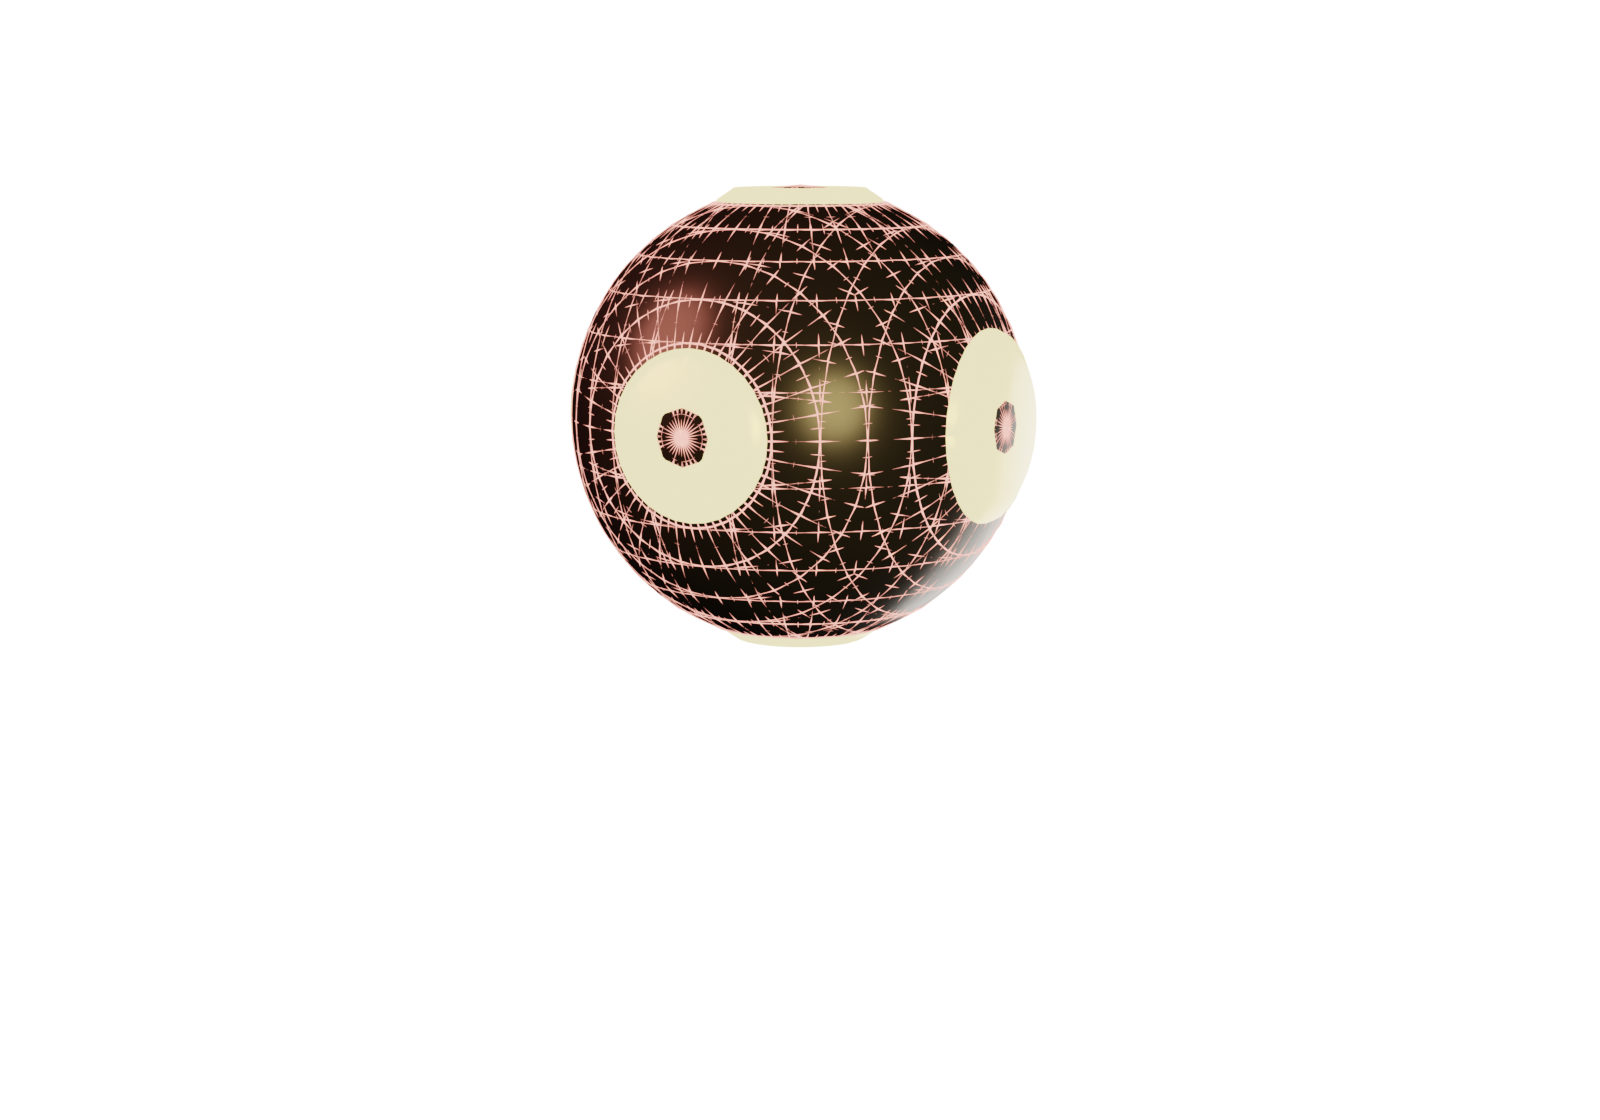
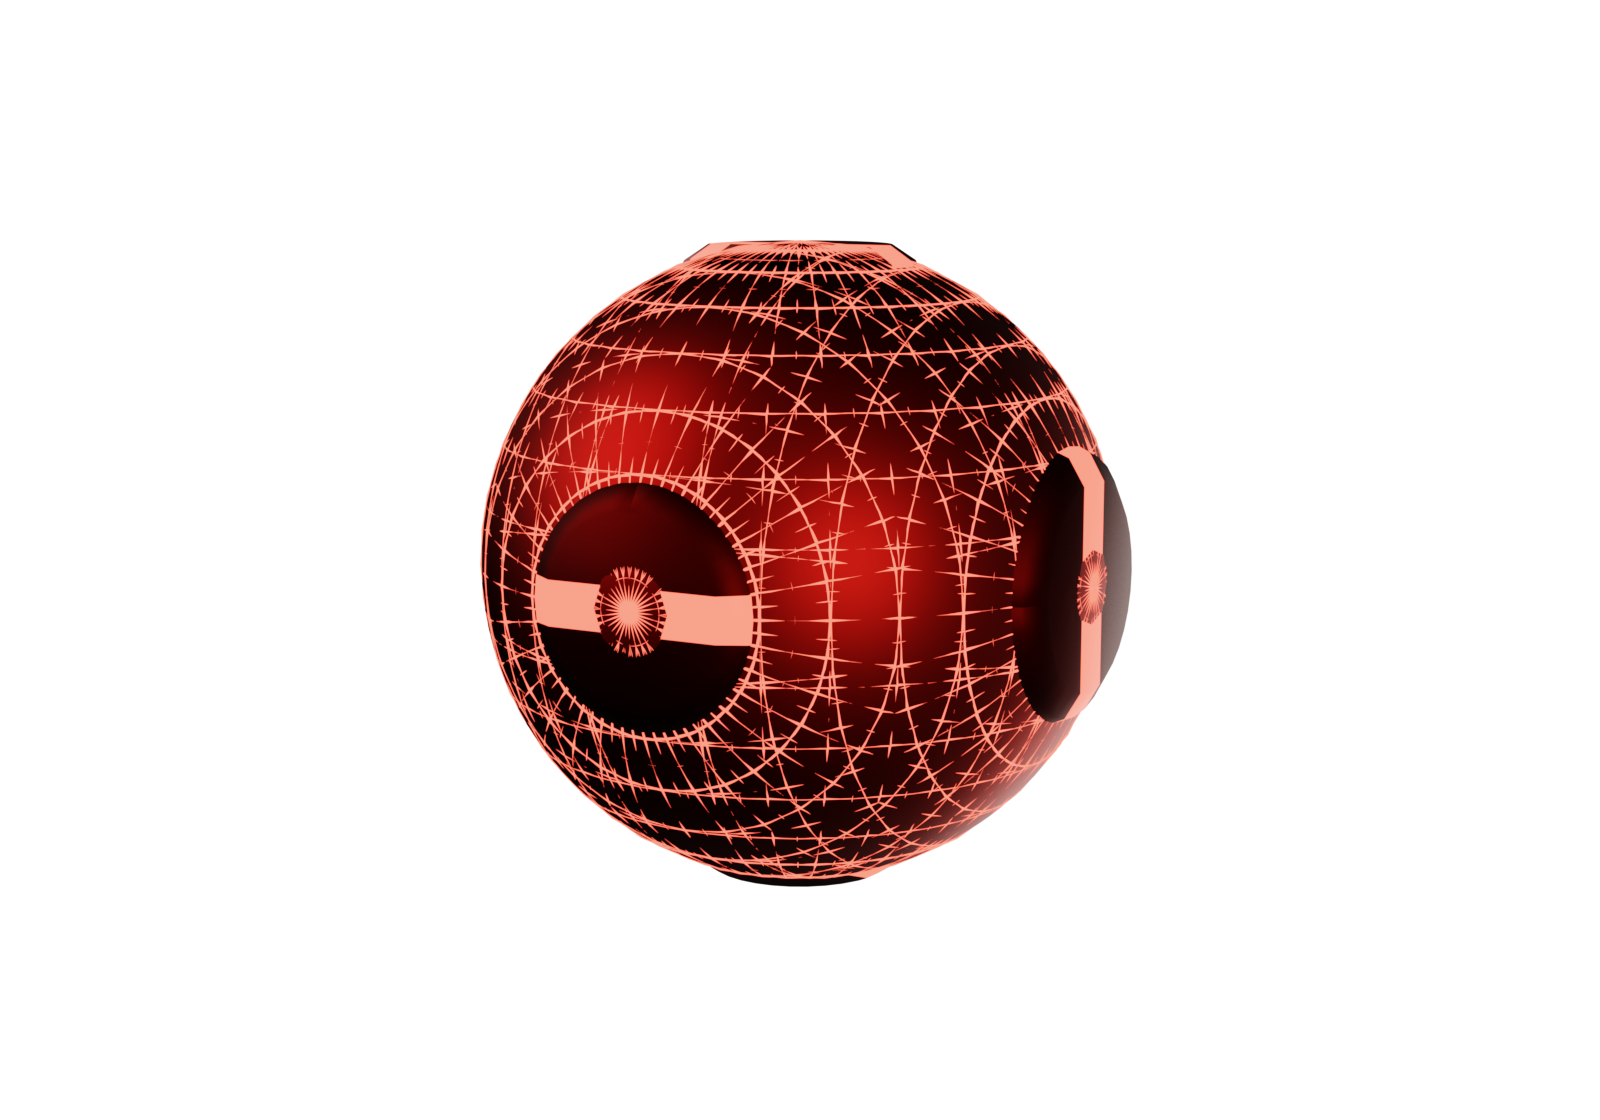
Restore Aether eye identity

Changed region(s): [[0.2812, 0.1562, 0.7188, 0.8125]]

diff --git a/app/globals.css b/app/globals.css
@@ -5,8 +5,8 @@
   --bone: #e9e2d4;
   --ash: #a39788;
   --mute: #635a4f;
-  --rust: #cf3f32;
-  --rust-dark: #6e211b;
+  --rust: #de3c2f;
+  --rust-dark: #ae2620;
   --amber: #e5b94b;
   --ember: #d97a3a;
   --hairline: rgba(233, 226, 212, 0.13);
@@ -52,7 +52,10 @@ button { font: inherit; }
   backdrop-filter: blur(10px);
 }
 .wordmark { display: inline-flex; align-items: center; gap: 11px; font-size: 18px; font-weight: 600; letter-spacing: -.03em; }
-.wordmark-mark { display: grid; place-items: center; width: 32px; height: 32px; border: 1px solid rgba(207,63,50,.6); color: var(--rust); font-family: Georgia, serif; font-size: 20px; }
+.wordmark-mark { position: relative; display: grid; place-items: center; width: 46px; height: 30px; color: var(--rust); font-family: var(--mono); font-size: 14px; letter-spacing: -.12em; }
+.wordmark-mark::before { content: ""; position: absolute; inset: 4px 0; border-top: 1px solid rgba(222,60,47,.72); border-bottom: 1px solid rgba(174,38,32,.72); border-radius: 52% 48%; transform: skewX(-13deg); box-shadow: inset 0 0 16px rgba(222,60,47,.08), 0 0 18px rgba(174,38,32,.08); }
+.wordmark-mark::after { content: ""; position: absolute; width: 4px; height: 4px; border-radius: 50%; background: var(--rust); box-shadow: 0 0 10px rgba(222,60,47,.9); }
+.wordmark-mark span { position: relative; z-index: 1; transform: translateX(-1px); text-shadow: 0 0 11px rgba(222,60,47,.62); animation: mark-breathe 3s ease-in-out infinite; }
 .site-nav nav { display: flex; align-items: center; gap: 28px; font-family: var(--mono); font-size: 10px; text-transform: uppercase; letter-spacing: .18em; color: var(--ash); }
 .site-nav nav a { transition: color .25s ease; }
 .site-nav nav a:hover, .site-nav nav a:focus-visible { color: var(--bone); }
@@ -113,15 +116,15 @@ h1, h2, h3, p { text-wrap: pretty; }
 .section-heading--center > p:last-child { margin-inline: auto; }
 
 .tour-stage { position: relative; min-height: min(760px, 78vh); overflow: hidden; border: 1px solid rgba(233,226,212,.16); background: #070605; box-shadow: 0 50px 140px rgba(0,0,0,.44), 0 0 80px rgba(207,63,50,.05); isolation: isolate; }
-.tour-stage::before { content: ""; position: absolute; z-index: 1; inset: 0; background: linear-gradient(180deg, rgba(7,6,5,.28), rgba(7,6,5,.2) 35%, rgba(7,6,5,.92) 100%), linear-gradient(90deg, rgba(7,6,5,.72), transparent 65%); pointer-events: none; }
+.tour-stage::before { content: ""; position: absolute; z-index: 1; inset: 0; background: linear-gradient(180deg, rgba(7,6,5,.22), rgba(7,6,5,.08) 42%, rgba(7,6,5,.38) 66%, rgba(7,6,5,.92) 100%), linear-gradient(90deg, rgba(7,6,5,.5), transparent 58%); pointer-events: none; }
 .tour-stage video { position: absolute; inset: 0; width: 100%; height: 100%; object-fit: cover; object-position: center; filter: brightness(.56) saturate(.72) contrast(1.08); transition: filter .7s ease, transform 1.2s ease; transform: scale(1.015); }
 .tour-stage--playing video { filter: brightness(.78) saturate(.88) contrast(1.03); transform: scale(1); }
 .tour-stage-top { position: absolute; z-index: 2; top: 0; left: 0; right: 0; min-height: 54px; padding: 0 20px; border-bottom: 1px solid rgba(233,226,212,.13); display: flex; align-items: center; justify-content: space-between; color: var(--bone); font-family: var(--mono); font-size: 8px; letter-spacing: .16em; background: rgba(7,6,5,.22); }
 .frame-live { display: inline-block; width: 6px; height: 6px; background: var(--rust); margin-right: 8px; border-radius: 50%; }
-.tour-stage-copy { position: absolute; z-index: 2; left: 42px; right: 42px; bottom: 42px; display: grid; grid-template-columns: minmax(0, 1fr) auto; align-items: end; gap: 48px; }
-.tour-stage-copy h2 { margin: 0; max-width: 900px; font-size: clamp(48px, 6vw, 82px); font-weight: 500; line-height: .94; letter-spacing: -.055em; }
+.tour-stage-copy { position: absolute; z-index: 2; left: 42px; right: 42px; bottom: 20px; display: grid; grid-template-columns: minmax(0, 1fr) auto; align-items: end; gap: 48px; }
+.tour-stage-copy h2 { margin: 0; max-width: 820px; font-size: clamp(46px, 5.35vw, 72px); font-weight: 500; line-height: .94; letter-spacing: -.055em; }
 .tour-stage-copy h2 em { color: rgba(233,226,212,.64); font-style: normal; font-weight: 400; }
-.tour-stage-copy > div > p:last-child { max-width: 610px; margin: 25px 0 0; color: rgba(233,226,212,.72); line-height: 1.7; }
+.tour-stage-copy > div > p:last-child { max-width: 610px; margin: 18px 0 0; color: rgba(233,226,212,.72); line-height: 1.65; }
 .tour-control { width: 112px; aspect-ratio: 1; border-radius: 50%; border: 1px solid rgba(233,226,212,.44); background: rgba(10,8,7,.72); color: var(--bone); display: grid; place-items: center; align-content: center; gap: 7px; cursor: pointer; font-family: var(--mono); font-size: 8px; letter-spacing: .14em; text-transform: uppercase; backdrop-filter: blur(8px); transition: background .25s ease, border-color .25s ease, transform .25s ease; }
 .tour-control span { color: var(--rust); font-size: 18px; line-height: 1; }
 .tour-control:hover, .tour-control:focus-visible { background: var(--rust); border-color: var(--rust); transform: scale(1.04); }
@@ -192,6 +195,7 @@ h1, h2, h3, p { text-wrap: pretty; }
 
 @keyframes orbit-spin { to { transform: rotate(360deg); } }
 @keyframes pulse { 0%,100% { opacity: .35; transform: scale(.8); } 50% { opacity: 1; transform: scale(1); } }
+@keyframes mark-breathe { 0%,100% { opacity: .58; } 50% { opacity: 1; } }
 
 @media (max-width: 1000px) {
   .site-nav { width: calc(100% - 32px); }
@@ -229,10 +233,10 @@ h1, h2, h3, p { text-wrap: pretty; }
   .section-heading--split { gap: 26px; }
   .tour-stage { min-height: 650px; }
   .tour-stage-top { align-items: flex-start; flex-direction: column; justify-content: center; gap: 5px; }
-  .tour-stage-copy { left: 22px; right: 22px; bottom: 24px; grid-template-columns: 1fr; gap: 26px; }
-  .tour-stage-copy h2 { font-size: clamp(42px, 12vw, 62px); }
-  .tour-stage-copy > div > p:last-child { font-size: 13px; }
-  .tour-control { width: 92px; }
+  .tour-stage-copy { left: 22px; right: 22px; bottom: 16px; grid-template-columns: 1fr; gap: 22px; }
+  .tour-stage-copy h2 { font-size: clamp(38px, 10.6vw, 52px); }
+  .tour-stage-copy > div > p:last-child { margin-top: 14px; font-size: 12px; line-height: 1.55; }
+  .tour-control { width: 80px; }
   .signal-grid { grid-template-columns: 1fr; }
   .signal-card { min-height: 230px; }
   .signal-card h3 { margin-top: 42px; }

diff --git a/app/AetherLanding.tsx b/app/AetherLanding.tsx
@@ -16,6 +16,14 @@ const signals = [
   ["Actions", "Inspect tools, patches, searches, compactions, outcomes, and model metadata.", "EVENT / STREAM"],
 ];
 
+function AetherMark() {
+  return (
+    <span className="wordmark-mark" aria-hidden="true">
+      <span>⠑⠽⠑</span>
+    </span>
+  );
+}
+
 export function AetherLanding() {
   const videoRef = useRef<HTMLVideoElement>(null);
   const [copied, setCopied] = useState(false);
@@ -59,7 +67,7 @@ export function AetherLanding() {
     <main>
       <header className="site-nav">
         <a className="wordmark" href="#top" aria-label="Aether home">
-          <span className="wordmark-mark">æ</span>
+          <AetherMark />
           <span>aether</span>
         </a>
         <nav aria-label="Primary navigation">
@@ -233,7 +241,7 @@ export function AetherLanding() {
       </section>
 
       <footer className="site-footer section-shell">
-        <div className="footer-main"><a className="wordmark" href="#top"><span className="wordmark-mark">æ</span><span>aether</span></a><p>Local, live observability for coding agents.</p><a href="#top">Back to signal ↑</a></div>
+        <div className="footer-main"><a className="wordmark" href="#top" aria-label="Aether home"><AetherMark /><span>aether</span></a><p>Local, live observability for coding agents.</p><a href="#top">Back to signal ↑</a></div>
         <div className="footer-meta"><span>© 2026 Chirag Goel · MIT</span><span>Built for macOS + Linux</span></div>
         <p className="attribution">
           3D model <a href="https://sketchfab.com/3d-models/the-all-seeing-eye-eba076cbdee94f2f9d399d95267f6ade" target="_blank" rel="noreferrer">“The All Seeing Eye”</a> by <a href="https://sketchfab.com/TheWarVet" target="_blank" rel="noreferrer">The WarVet</a>, modified for Aether, licensed under <a href="https://creativecommons.org/licenses/by/4.0/" target="_blank" rel="noreferrer">CC BY 4.0</a>. No endorsement implied.

diff --git a/app/EyeCanvas.tsx b/app/EyeCanvas.tsx
@@ -64,10 +64,10 @@ export function EyeCanvas() {
         renderer.toneMappingExposure = 1.05;
 
         scene.add(new THREE.HemisphereLight(0xe9e2d4, 0x0a0807, 1.6));
-        const rustLight = new THREE.DirectionalLight(0xcf3f32, 7);
+        const rustLight = new THREE.DirectionalLight(0xae2620, 7);
         rustLight.position.set(-4, 3, 4);
         scene.add(rustLight);
-        const amberLight = new THREE.DirectionalLight(0xe5b94b, 5);
+        const amberLight = new THREE.DirectionalLight(0xde3c2f, 4.5);
         amberLight.position.set(4, -1, 3);
         scene.add(amberLight);
 
@@ -102,7 +102,7 @@ export function EyeCanvas() {
           materials.forEach((candidate) => {
             if (
               candidate instanceof THREE.MeshStandardMaterial &&
-              /signal|ember/i.test(candidate.name)
+              /signal|glow/i.test(candidate.name)
             ) {
               pulseMaterials.push({ material: candidate, base: candidate.emissiveIntensity });
             }

diff --git a/scripts/process-eye.py b/scripts/process-eye.py
@@ -4,9 +4,11 @@ Run with Blender:
   blender --background <AllSeeing.blend> --python scripts/process-eye.py -- \
     <output.glb> <poster.png>
 
-The source .blend remains untouched. This script removes the original ocean
-environment, remaps the materials to Aether's palette, writes attribution into
-the exported glTF extras, and renders the static fallback poster.
+The source .blend remains untouched. This script relinks the bundled environment
+texture, removes the original ocean environment, preserves the eye's original
+material-slot structure, adapts its native red metals and glow to Aether's exact
+palette, writes attribution into the exported glTF extras, and renders the
+static fallback poster.
 """
 
 from __future__ import annotations
@@ -39,24 +41,57 @@ def look_at(obj: bpy.types.Object, target: Vector) -> None:
     obj.rotation_euler = (target - obj.location).to_track_quat("-Z", "Y").to_euler()
 
 
-def material(name: str, color: str, *, emission: str | None = None, strength: float = 0.0):
-    mat = bpy.data.materials.get(name) or bpy.data.materials.new(name)
-    mat.use_nodes = True
-    nodes = mat.node_tree.nodes
-    nodes.clear()
-    output = nodes.new("ShaderNodeOutputMaterial")
-    shader = nodes.new("ShaderNodeBsdfPrincipled")
-    shader.inputs["Base Color"].default_value = hex_rgba(color)
-    shader.inputs["Metallic"].default_value = 0.72
-    shader.inputs["Roughness"].default_value = 0.28
-    if emission:
-        shader.inputs["Emission Color"].default_value = hex_rgba(emission)
-        shader.inputs["Emission Strength"].default_value = strength
-    mat.node_tree.links.new(shader.outputs["BSDF"], output.inputs["Surface"])
+def srgb_rgba(value: str) -> tuple[float, float, float, float]:
+    """Convert a CSS sRGB hex color to Blender's scene-linear color space."""
+    components = hex_rgba(value)
+    linear = tuple(
+        channel / 12.92 if channel <= 0.04045 else ((channel + 0.055) / 1.055) ** 2.4
+        for channel in components[:3]
+    )
+    return linear + (1.0,)
+
+
+def tune_original_material(
+    source_name: str,
+    export_name: str,
+    color: str,
+    *,
+    metallic: float,
+    roughness: float,
+    emission: str | None = None,
+    strength: float = 0.0,
+) -> bpy.types.Material:
+    mat = bpy.data.materials[source_name]
+    mat.name = export_name
+    for node in mat.node_tree.nodes:
+        if node.type != "BSDF_PRINCIPLED":
+            continue
+        node.inputs["Base Color"].default_value = srgb_rgba(color)
+        node.inputs["Metallic"].default_value = metallic
+        node.inputs["Roughness"].default_value = roughness
+        if emission:
+            node.inputs["Emission Color"].default_value = srgb_rgba(emission)
+            node.inputs["Emission Strength"].default_value = strength
     return mat
 
 
 def prepare_scene() -> list[bpy.types.Object]:
+    # The archive bundles the original environment image at a different path
+    # from the artist's machine. Relink it before removing the web-unneeded
+    # ocean environment so the source scene remains faithfully reconstructable.
+    texture_path = Path(bpy.data.filepath).parent.parent / "textures" / "GoldenSunrise.jpeg"
+    sunrise = bpy.data.images.get("GoldenSunrise.jpg")
+    if sunrise and texture_path.exists():
+        relinked = bpy.data.images.load(str(texture_path), check_existing=False)
+        relinked.name = "GoldenSunrise (relinked)"
+        for mat in bpy.data.materials:
+            if not mat.use_nodes:
+                continue
+            for node in mat.node_tree.nodes:
+                if node.type == "TEX_IMAGE" and node.image == sunrise:
+                    node.image = relinked
+        bpy.data.images.remove(sunrise)
+
     selected: list[bpy.types.Object] = []
     for obj in list(bpy.context.scene.objects):
         if obj.name in EYE_OBJECTS:
@@ -64,9 +99,32 @@ def prepare_scene() -> list[bpy.types.Object]:
         else:
             bpy.data.objects.remove(obj, do_unlink=True)
 
-    graphite = material("Aether Graphite", "#14110f")
-    rust = material("Aether Signal", "#4f1713", emission="#cf3f32", strength=3.8)
-    amber = material("Aether Ember", "#4a3312", emission="#e5b94b", strength=2.6)
+    # Preserve the artist's original material assignments and response: the
+    # source already uses dark red metal and a red emissive signal. Only the
+    # specific colors and web-safe glow strength are adapted to Aether.
+    tune_original_material(
+        "Material",
+        "Aether Red Metal",
+        "#AE2620",
+        metallic=1.0,
+        roughness=0.46,
+    )
+    tune_original_material(
+        "redmat 2",
+        "Aether Deep Red Metal",
+        "#4F0B09",
+        metallic=1.0,
+        roughness=0.53,
+    )
+    tune_original_material(
+        "Glow",
+        "Aether Signal Glow",
+        "#DE3C2F",
+        metallic=0.0,
+        roughness=0.48,
+        emission="#DE3C2F",
+        strength=8.0,
+    )
 
     for obj in selected:
         if obj.type != "MESH":
@@ -81,21 +139,13 @@ def prepare_scene() -> list[bpy.types.Object]:
             decimate.ratio = 0.88
             bpy.ops.object.modifier_apply(modifier=decimate.name)
             obj.select_set(False)
-        obj.data.materials.clear()
-        if obj.name in {"0101010111", "000111", "0010111010"}:
-            obj.data.materials.append(rust)
-        elif obj.name in {"1", "1.001", "1.0110"}:
-            obj.data.materials.append(amber)
-        else:
-            obj.data.materials.append(graphite)
-
     root = bpy.data.objects.new("Aether_All_Seeing_Eye", None)
     bpy.context.scene.collection.objects.link(root)
     root["title"] = "The All Seeing Eye"
     root["creator"] = "The WarVet"
     root["source"] = "https://sketchfab.com/3d-models/the-all-seeing-eye-eba076cbdee94f2f9d399d95267f6ade"
     root["license"] = "CC BY 4.0 — https://creativecommons.org/licenses/by/4.0/"
-    root["changes"] = "Environment removed; geometry selected; materials and lighting adapted; exported to glTF for Aether."
+    root["changes"] = "Environment removed; geometry optimized; original material slots retained; native red metals, glow, and lighting adapted to Aether; exported to glTF."
     for obj in selected:
         world = obj.matrix_world.copy()
         obj.parent = root
@@ -131,21 +181,30 @@ def render_poster(output: Path) -> None:
     scene.render.image_settings.color_mode = "RGBA"
 
     camera_data = bpy.data.cameras.new("Aether Camera")
-    camera_data.lens = 62
+    camera_data.lens = 56
     camera = bpy.data.objects.new("Aether Camera", camera_data)
     bpy.context.scene.collection.objects.link(camera)
-    camera.location = (7.5, -13.5, 23.5)
-    look_at(camera, Vector((0, 0, 21.0)))
+    bounds = [
+        obj.matrix_world @ Vector(corner)
+        for obj in scene.objects
+        if obj.type == "MESH" and obj.name in EYE_OBJECTS
+        for corner in obj.bound_box
+    ]
+    eye_center = Vector(
+        tuple((min(point[index] for point in bounds) + max(point[index] for point in bounds)) / 2 for index in range(3))
+    )
+    camera.location = eye_center + Vector((4.8, -8.7, 1.7))
+    look_at(camera, eye_center)
     scene.camera = camera
 
-    add_light("Rust Rim", "AREA", "#cf3f32", 1150, (-8, -7, 28), 8)
-    add_light("Amber Key", "AREA", "#e5b94b", 1250, (10, -10, 24), 7)
-    add_light("Bone Fill", "AREA", "#e9e2d4", 800, (2, 8, 18), 9)
+    add_light("Primary Red Rim", "AREA", "#ae2620", 1150, (-8, -7, 28), 8)
+    add_light("Signal Red Key", "AREA", "#de3c2f", 1050, (10, -10, 24), 7)
+    add_light("Bone Fill", "AREA", "#e9e2d4", 520, (2, 8, 18), 9)
 
     world = scene.world or bpy.data.worlds.new("Aether World")
     scene.world = world
     world.use_nodes = True
-    world.node_tree.nodes["Background"].inputs["Color"].default_value = hex_rgba("#0a0807")
+    world.node_tree.nodes["Background"].inputs["Color"].default_value = srgb_rgba("#0a0807")
     world.node_tree.nodes["Background"].inputs["Strength"].default_value = 0.08
 
     output.parent.mkdir(parents=True, exist_ok=True)